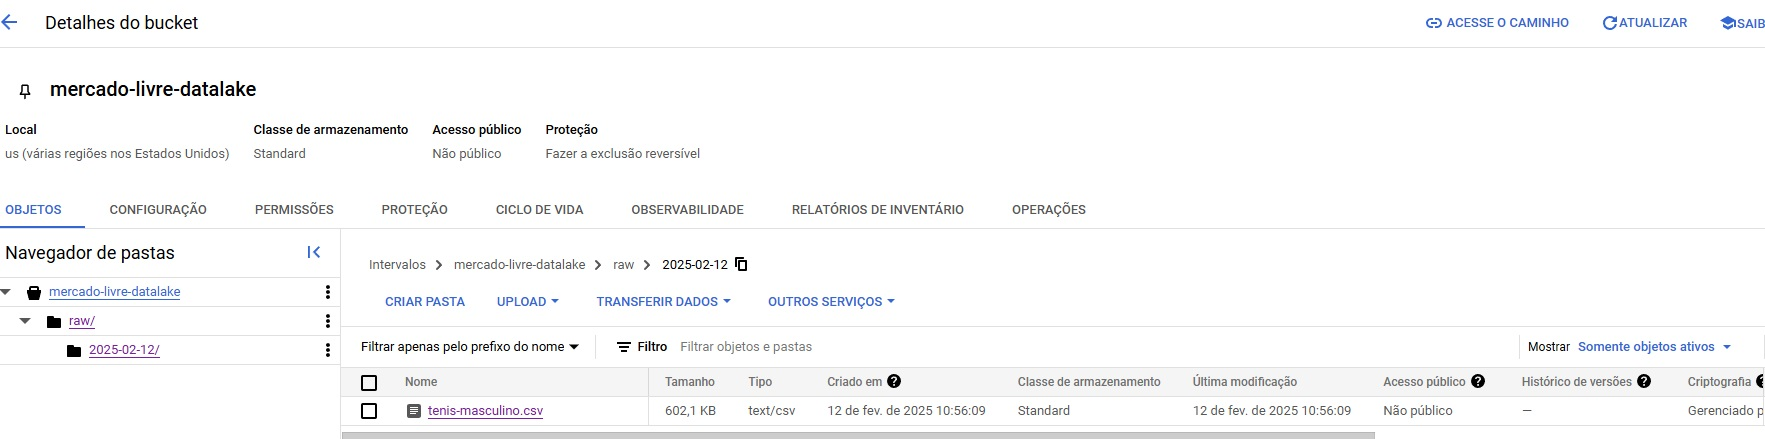
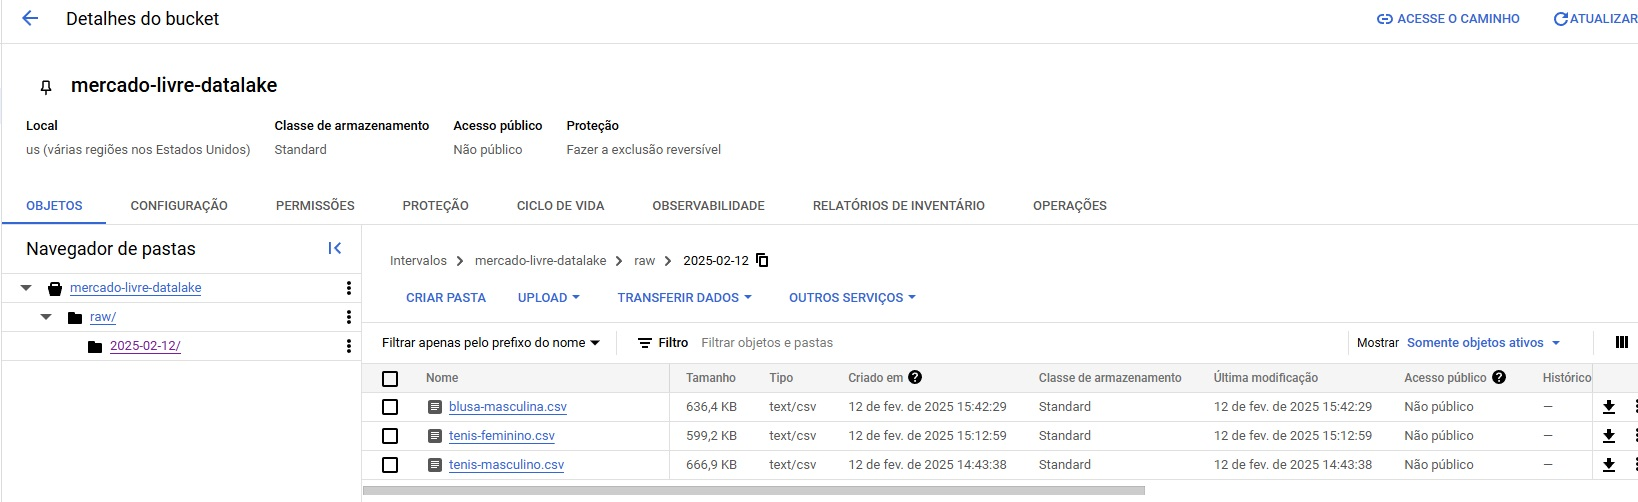
feat: mercado_livre_pipeline dag

diff --git a/dags/mercado_livre_pipeline.py b/dags/mercado_livre_pipeline.py
@@ -97,7 +97,7 @@ def pipeline():
         except requests.exceptions.RequestException as e:
             logger.error(f"Erro ao coletar dados: {e}")
 
-    @task(task_id="iniciar_mercado_livre")
+    @task(task_id="iniciar_extracao_mercado_livre")
     def iniciar_mercado_livre():
         produtos = buscar_produtos_api()
         if produtos:
@@ -109,28 +109,41 @@ def pipeline():
 
     ml_extract = iniciar_mercado_livre()
 
-    def processar_arquivos(**kwargs):
+    @task
+    def carregar_arquivo(arquivo: str):
+        """Carrega um arquivo específico para o BigQuery."""
+        gcs_data_path = f"gs://{BUCKET_NAME}/{arquivo}"
+
+        logger.info(f"Arquivo {arquivo} processado!")
+
+        load_file =  aql.load_file(
+            task_id=f"load_{arquivo.replace('/', '_')}",
+            input_file=File(path=gcs_data_path, conn_id=GCP_CONN),
+            output_table=Table(
+                name="produtos",
+                conn_id=GCP_CONN,
+                metadata={"schema": "mercadolivre", "database": "projeto-lobobranco"}
+            ),
+            use_native_support=False,
+            columns_names_capitalization="original"
+        )
+        load_file
+
+    @task
+    def processar_arquivos(**kwargs) -> list:
+        """Recupera os arquivos listados e retorna a lista."""
         ti = kwargs['ti']
         arquivos = ti.xcom_pull(task_ids="listar_arquivos")
+
         if not arquivos:
             logger.info("Nenhum arquivo encontrado para processamento.")
-            return
+            return []
 
-        for arquivo in arquivos:
-            gcs_data_path = f"gs://{BUCKET_NAME}/{arquivo}"
-            aql.load_file(
-                task_id=f"load_{arquivo.replace('/', '_')}",
-                input_file=File(path=gcs_data_path, conn_id=GCP_CONN),
-                output_table=Table(
-                    name="produtos",
-                    conn_id=GCP_CONN,
-                    metadata={"schema": "mercadolivre", "database": "projeto-lobobranco"}
-                ),
-                use_native_support=False,
-                columns_names_capitalization="original",
-                if_exists="append"
-            )
-            logger.info(f"Processando arquivo: {arquivo}")
+        return arquivos  # ✅ Retorna a lista de arquivos normalmente
+
+    arquivos = processar_arquivos()
+
+    carregar_tasks = carregar_arquivo.expand(arquivo=arquivos)
 
     listar_arquivos = GCSListObjectsOperator(
         task_id="listar_arquivos",
@@ -140,10 +153,10 @@ def pipeline():
         do_xcom_push=True
     )
 
-    gcs_to_bigquery = PythonOperator(
-        task_id="processar_arquivos",
-        python_callable=processar_arquivos
-    )
+    #gcs_to_bigquery = PythonOperator(
+     #   task_id="gcs_to_bigquery",
+      #  python_callable=processar_arquivos
+    #)
 
     dbt_running_models = DbtTaskGroup(
         group_id="dbt_running_models",
@@ -151,6 +164,6 @@ def pipeline():
         profile_config=profile_config
     )
 
-    init >> sensor >> ml_extract >> listar_arquivos >> gcs_to_bigquery >> dbt_running_models >> finish
+    init >> sensor >> ml_extract >> listar_arquivos >> arquivos >> carregar_tasks >> dbt_running_models >> finish
 
 data_source = pipeline()
